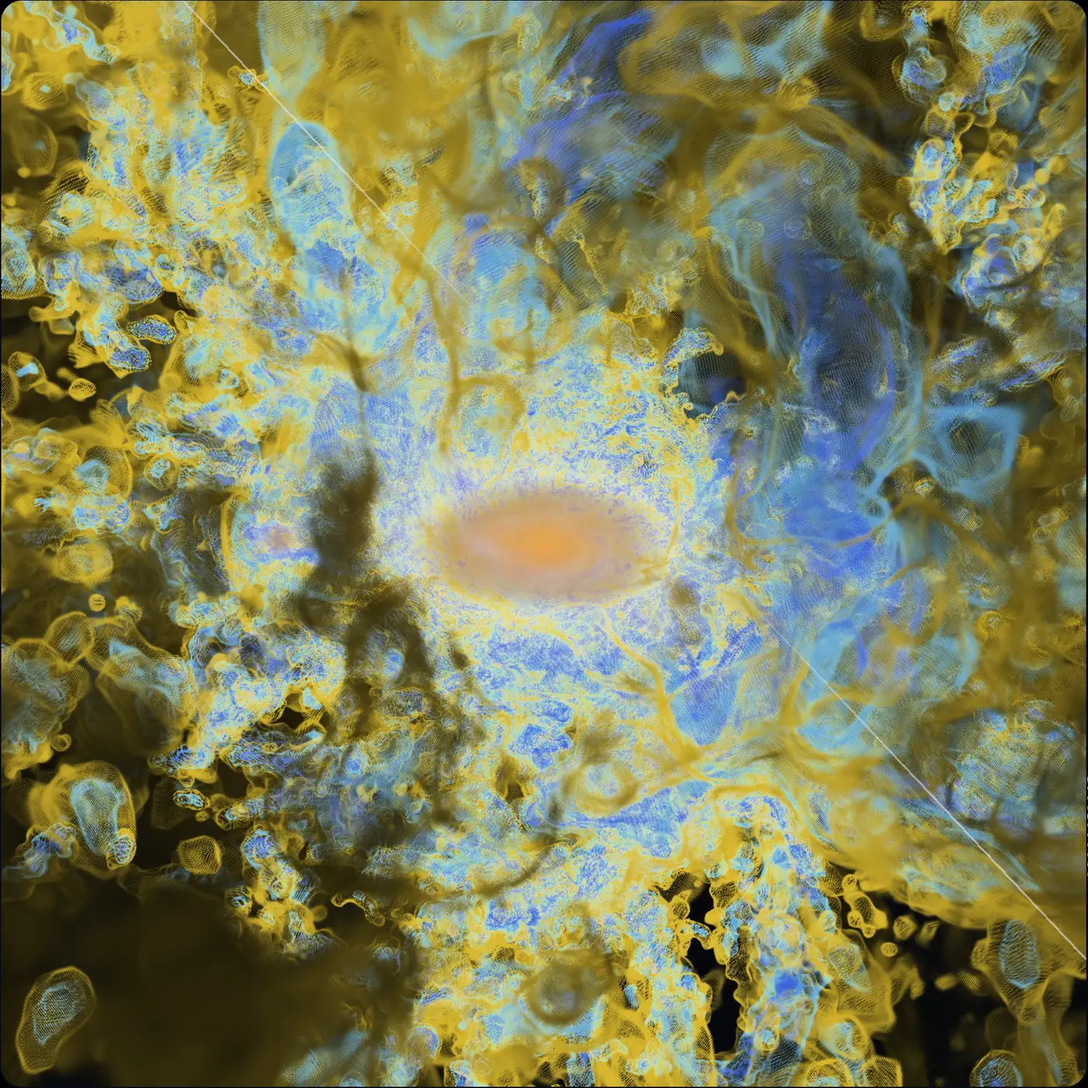
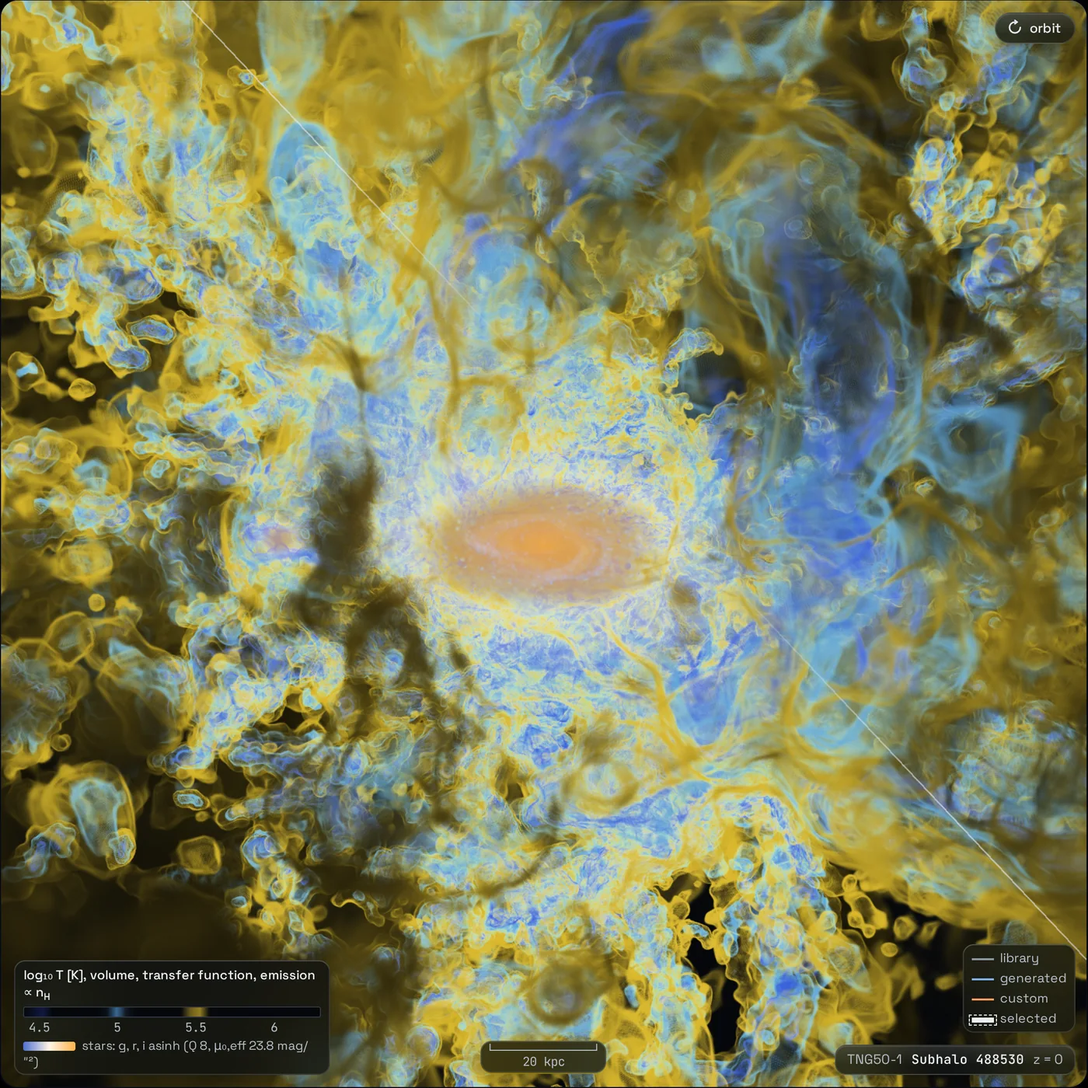
README: hero from the exact 3D link, less text, less Detect & Resolve
The hero is now the 3D stage rendered from the owner's link loaded verbatim
(hardware WebGL; TF bands, volume mode, T with n_H emission, sightline
rand_b062_a062 and all cube levels verified before capture), with the
stage's own overlays and a caption linking to that view. Add a "Try it"
link near the top, shorten the intro and captions, fold the pages into one
short list, and move the Detect & Resolve screenshot into Technical details.

diff --git a/README.md b/README.md
@@ -1,10 +1,15 @@
 <p align="center">
-  <a href="https://galaxies.tanmaysingh.uk"><img src="docs/readme/hero.webp" width="100%" alt="Gas around a TNG50 galaxy rendered in 3D as nested temperature shells, cool blue outside and hot gold inside, crossed by one sightline"></a>
+  <a href="https://galaxies.tanmaysingh.uk/?tf=T~B4.5_0.03_0.25_2341af~B5_0.03_0.35_64b9ff~B5.5_0.03_0.5_ffd732~EnH_1~W4.4_6.3~FT#id=rand_b062_a062&ions=HI,MgII,SiIII,CIV,OVI&lay=1&R=uv:15000,50000;euv:15000,50000;xray:300,3000&sn=20,5&vc=0&vw=400&seed=0&fit=1&intr=1&tab=3d"><img src="docs/readme/hero.webp" width="100%" alt="The explorer's 3D stage: gas around TNG50 galaxy 488530 rendered as temperature shells, cool blue to hot gold, around the starlit disk, crossed by one sightline"></a>
 </p>
+<p align="center"><sub>Gas around galaxy 488530 coloured by temperature, as the explorer's 3D view shows it at <a href="https://galaxies.tanmaysingh.uk/?tf=T~B4.5_0.03_0.25_2341af~B5_0.03_0.35_64b9ff~B5.5_0.03_0.5_ffd732~EnH_1~W4.4_6.3~FT#id=rand_b062_a062&ions=HI,MgII,SiIII,CIV,OVI&lay=1&R=uv:15000,50000;euv:15000,50000;xray:300,3000&sn=20,5&vc=0&vw=400&seed=0&fit=1&intr=1&tab=3d">this link</a>.</sub></p>
 
 <h1 align="center">Seeing the Circumgalactic Medium</h1>
 
 <p align="center"><b>Shine a beam of light through a simulated galaxy's halo and read what the gas leaves behind.</b></p>
+
+<p align="center">
+  <a href="https://galaxies.tanmaysingh.uk/"><b>Try it in your browser &rarr;</b></a>
+</p>
 
 <p align="center">
   <a href="https://galaxies.tanmaysingh.uk"><img alt="Live site" src="https://img.shields.io/badge/live-galaxies.tanmaysingh.uk-7c8cff?style=flat-square"></a>
@@ -14,33 +19,23 @@
   <a href="https://www.tng-project.org/data/"><img alt="Data: IllustrisTNG TNG50" src="https://img.shields.io/badge/data-IllustrisTNG%20TNG50-f08a4b?style=flat-square"></a>
 </p>
 
-<p align="center">
-  <a href="https://galaxies.tanmaysingh.uk/"><b>Explorer</b></a> &nbsp;|&nbsp;
-  <a href="https://galaxies.tanmaysingh.uk/learn/how-a-spectrum-is-made/"><b>How an absorption spectrum is made</b></a> &nbsp;|&nbsp;
-  <a href="https://galaxies.tanmaysingh.uk/requirements/"><b>Detect & Resolve</b></a> &nbsp;|&nbsp;
-  <a href="#technical-details"><b>Technical details</b></a>
-</p>
-
-Every galaxy sits inside a vast halo of thin gas, the circumgalactic medium (CGM), which holds much of the raw
-material it will turn into stars. The halo is far too faint to photograph, so we see it only when a distant quasar
-shines through it: each kind of atom takes its own small bite out of the light, and those dips tell us how much gas
-there is, how hot it is and how it moves.
-
-This site lets you do that with 198 Milky Way and Andromeda look-alikes from the TNG50 simulation, in your browser.
+Every galaxy sits inside a vast, faint halo of gas, the circumgalactic medium. We only see it when a distant quasar
+shines through: each kind of atom bites its own dip out of the light, and those dips tell us how much gas there is,
+how hot it is and how it moves. This site lets you do that for 198 Milky Way look-alikes from the TNG50 simulation.
 
 ## What you can do
 
 ### Read the light
 
 <p align="center"><a href="https://galaxies.tanmaysingh.uk/"><img src="docs/readme/spectra.webp" width="100%" alt="The explorer comparing five absorption lines at two resolving powers, with fitted components"></a></p>
-<p align="center"><sub>Twelve ions along any sightline, from cool hydrogen to million-degree oxygen, seen through the telescope you choose and fitted in your browser.</sub></p>
+<p align="center"><sub>Twelve ions along any sightline, through the telescope you choose.</sub></p>
 
 ### Fly through the gas
 
 <p align="center"><img src="docs/readme/gas-3d.webp" width="100%" alt="Six 3D views of the same galaxy: THOR gas phases, O VI column, line-of-sight velocity, gas density, face-on and edge-on"></p>
-<p align="center"><sub>Turn the galaxy in 3D and colour its gas by temperature phase, any of the twelve ions, velocity or density, with your sightline drawn in place. Top: gas phases, O VI, line-of-sight velocity. Bottom: gas density, face-on, edge-on.</sub></p>
+<p align="center"><sub>Colour the halo by temperature, any ion, velocity or density, and turn it any way you like.</sub></p>
 
-### Watch a spectrum being made
+### Watch a spectrum form
 
 <table>
   <tr>
@@ -48,37 +43,24 @@ This site lets you do that with 198 Milky Way and Andromeda look-alikes from the
     <td width="50%"><img src="docs/readme/learn-step.webp" alt="A step of the story, midway from gas cells to a fitted spectrum"></td>
   </tr>
 </table>
-<p align="center"><sub>Follow one beam cell by cell, from the gas to a fitted spectrum, as a scroll story or a short film.</sub></p>
+<p align="center"><sub>Follow one beam cell by cell, from gas to a fitted spectrum.</sub></p>
 
-### Ask what a telescope can see
+### Take it anywhere
 
-<p align="center"><a href="https://galaxies.tanmaysingh.uk/requirements/"><img src="docs/readme/requirements.webp" width="100%" alt="Detect & Resolve: maps of the weakest detectable absorber and the smallest resolvable separation, with real spectrographs marked"></a></p>
-<p align="center"><sub>Detect & Resolve maps the signal-to-noise and resolving power it takes to detect an absorber and split it into components, with real spectrographs marked.</sub></p>
+<p align="center"><img src="docs/readme/mobile.webp" width="520" alt="The explorer on a phone: the spectra with the glass dock, and the control sheet pulled up"></p>
+<p align="center"><sub>Works on a phone, nothing to install.</sub></p>
 
-### Take it with you
+## Three ways in
 
-<p align="center"><img src="docs/readme/mobile.webp" width="560" alt="The explorer on a phone: the spectra with the glass dock, and the control sheet pulled up"></p>
-<p align="center"><sub>Everything works on a phone, with nothing to install.</sub></p>
+- [**Explorer**](https://galaxies.tanmaysingh.uk/) for sightlines, spectra and 3D gas.
+- [**How an absorption spectrum is made**](https://galaxies.tanmaysingh.uk/learn/how-a-spectrum-is-made/) for the story.
+- [**Detect & Resolve**](https://galaxies.tanmaysingh.uk/requirements/) for what a telescope needs to see it.
 
-## The three pages
+## Credit and feedback
 
-| Page | What it is |
-|---|---|
-| [**Explorer**](https://galaxies.tanmaysingh.uk/) | Sightlines, spectra, fits, 3D gas and a chat helper for 198 TNG50 galaxies |
-| [**How an absorption spectrum is made**](https://galaxies.tanmaysingh.uk/learn/how-a-spectrum-is-made/) | A cinematic story from gas cells to a fitted spectrum |
-| [**Detect & Resolve**](https://galaxies.tanmaysingh.uk/requirements/) | The instrument study: the S/N and resolving power it takes to detect and resolve an absorber |
-
-## Credit
-
-This is not a published work, so there is nothing formal to cite. If the site or the code helps you, a short
-acknowledgement with a link to https://galaxies.tanmaysingh.uk is kindly appreciated. The simulation and the tools it
-builds on have their own citation requests, listed under [Credits](#credits).
-
-## Feedback and contributing
-
-Found a bug, spotted a number that looks wrong, or have an idea? Open an
-[issue](https://github.com/tanmay-starslab/cgm-absorber-requirements/issues), or read
-[CONTRIBUTING.md](CONTRIBUTING.md) to send a pull request.
+No formal citation needed; a link to https://galaxies.tanmaysingh.uk is kindly appreciated. The simulation and tools
+have their own citation requests under [Credits](#credits). Found a bug or have an idea? Open an
+[issue](https://github.com/tanmay-starslab/cgm-absorber-requirements/issues) or see [CONTRIBUTING.md](CONTRIBUTING.md).
 
 ---
 
@@ -98,6 +80,8 @@ redirect to the new site.
 <summary><b>Detect &amp; Resolve: method, transitions and figures</b></summary>
 
 ### Detect & Resolve
+
+<p align="center"><img src="docs/readme/requirements.webp" width="80%" alt="Detect & Resolve: maps of the weakest detectable absorber and the smallest resolvable separation for C IV, with real spectrographs marked"></p>
 
 ![Requirement matrix](figures/requirements_matrix.png)
 
